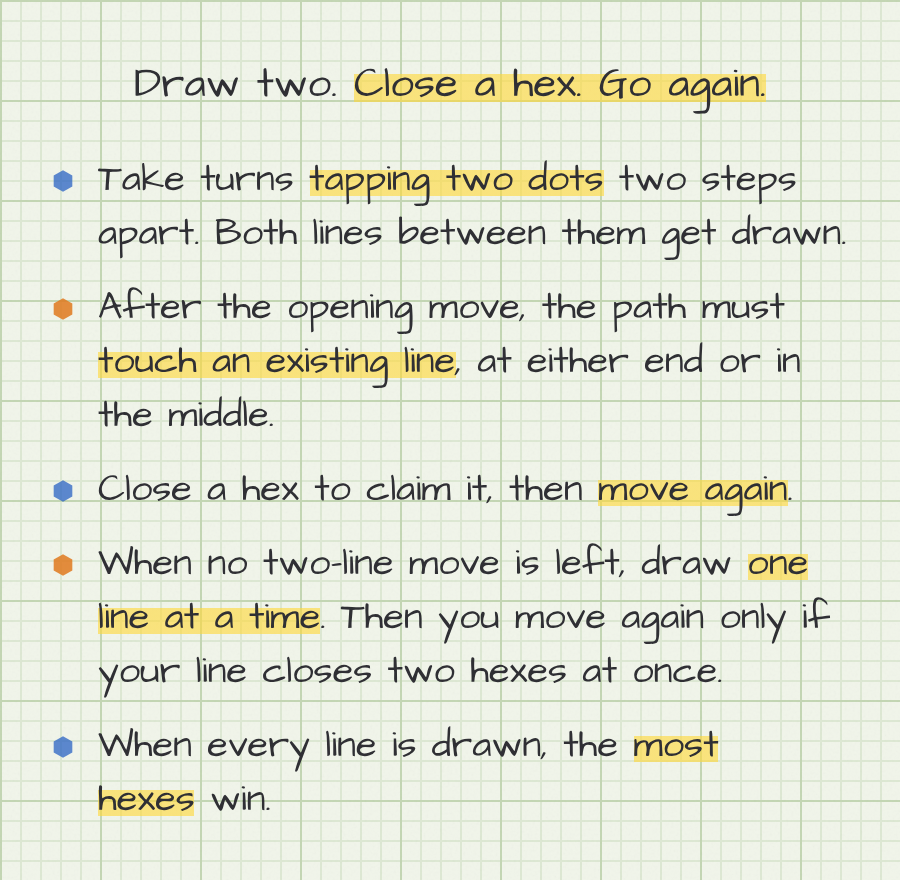
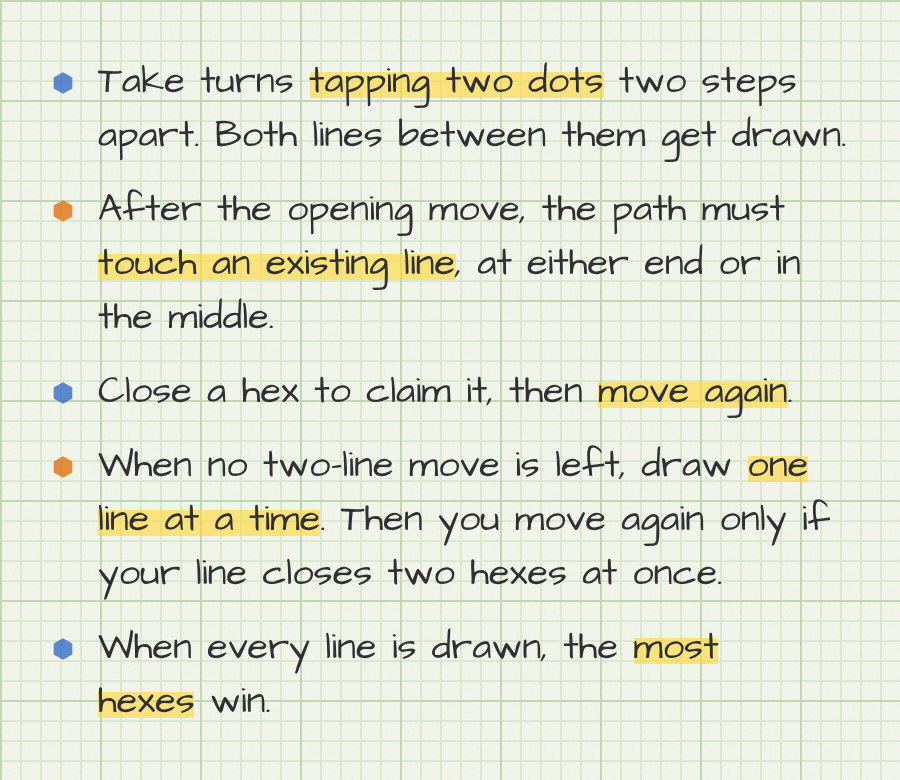
itch.io art: GIFs, and the rules without the tagline
cover-gif.mjs (after Patch Through's) plays the cover's seeded game move
by move in headless Chrome: each move's two lines drawn by pencil from
dot to dot, closed hexes popping in as in the game, a 2.5 s hold on the
still image's position, then a fade back to the empty board. ffmpeg
makes the looping GIFs: Cover.gif (379 KB) and Embed BG.gif (294 KB),
17.6 s each. board.js's drawBoard takes grow and pop for this;
Cover.html exposes drawFrame. The rules graphic drops the tagline and
is now 450x390.

Claude-Session: https://claude.ai/code/session_01HBxUBzsLmmLyjGt7Pc5a1a

Changed region(s): [[0.0, 0.0615, 1.0, 0.9538]]

diff --git a/itch/board.js b/itch/board.js
@@ -79,7 +79,9 @@ const wob = (i, j) => {
 };
 
 // Draws game g on svg, which is width px wide (its height follows the board's shape).
-export const drawBoard = (svg, g, width, { last = true } = {}) => {
+// For animation: grow (0 to 1) draws the last move's lines along its path, as the pencil goes from dot to
+// dot, and pop (0 to 1) brings in the hexes it closed, growing from 0.4 as in the game.
+export const drawBoard = (svg, g, width, { last = true, grow = 1, pop = 1 } = {}) => {
 	const bd = boardOf(g.size);
 	const [x0, y0, vw, vh] = bd.view;
 	const k = vw / width;
@@ -114,10 +116,24 @@ export const drawBoard = (svg, g, width, { last = true } = {}) => {
 	const pts = (vs) => vs.map((i) => `${bd.verts[i].x},${bd.verts[i].y}`).join(' ');
 
 	const hexes = add(svg, 'g', { filter: 'url(#b-crayon)' });
-	g.owner.forEach((o, i) => o > 0 && add(hexes, 'polygon', { points: pts(bd.hexes[i].vs), fill: `url(#b-fill${o})` }));
+	const fresh = new Set(g.last?.hexes ?? []);
+
+	g.owner.forEach((o, i) => {
+		if (o <= 0 || (fresh.has(i) && pop <= 0)) return;
+		const poly = add(hexes, 'polygon', { points: pts(bd.hexes[i].vs), fill: `url(#b-fill${o})` });
+
+		if (fresh.has(i) && pop < 1) {
+			const c = bd.hexes[i].vs.reduce((m, v) => ({ x: m.x + bd.verts[v].x / 6, y: m.y + bd.verts[v].y / 6 }), { x: 0, y: 0 });
+			const s = 0.4 + 0.6 * pop;
+			poly.setAttribute('transform', `translate(${c.x} ${c.y}) scale(${s}) translate(${-c.x} ${-c.y})`);
+			poly.setAttribute('opacity', pop);
+		}
+	});
 
 	const pencil = add(svg, 'g', { filter: 'url(#b-pencil)' });
 	const lastEdges = new Set(last && !g.over ? (g.last?.edges ?? []) : []);
+	// the last move's lines in drawing order, each with the dot it starts from
+	const order = (g.last?.edges ?? []).map((e, j) => ({ e, from: g.last.path[j] }));
 
 	bd.edges.forEach((e, i) => {
 		if (g.drawn[i] < 0) return;
@@ -133,7 +149,13 @@ export const drawBoard = (svg, g, width, { last = true } = {}) => {
 		const y2 = b.y + uy * o2 + wob(i, 5) * k;
 		const bow = 5 * wob(i, 6) * k;
 		const hard = lastEdges.has(i);
-		add(pencil, 'path', {
+		const j = order.findIndex((x) => x.e === i);
+		// how much of this line is drawn yet: the move's lines go one after the other
+		const part = j < 0 ? 1 : Math.min(1, Math.max(0, grow * order.length - j));
+
+		if (part <= 0) return;
+
+		const path = add(pencil, 'path', {
 			d: `M${n(x1)} ${n(y1)}Q${n((x1 + x2) / 2 - uy * bow)} ${n((y1 + y2) / 2 + ux * bow)} ${n(x2)} ${n(y2)}`,
 			fill: 'none',
 			style: `stroke: var(${hard ? '--last' : '--line'})`,
@@ -141,6 +163,13 @@ export const drawBoard = (svg, g, width, { last = true } = {}) => {
 			'stroke-linecap': 'round',
 			opacity: hard ? 1 : 0.9
 		});
+
+		if (part < 1) {
+			// drawn from the dot the move starts at: from e.a forward, or from e.b back
+			path.setAttribute('pathLength', 1);
+			path.setAttribute('stroke-dasharray', `${part} 2`);
+			if (order[j].from !== e.a) path.setAttribute('stroke-dashoffset', -(1 - part));
+		}
 	});
 
 	const dead = deadDots(bd, g);

diff --git a/itch/Cover.html b/itch/Cover.html
@@ -8,10 +8,10 @@
 	     #embed  640×360  Embed BG: itch's placeholder for "Click to launch in fullscreen", shown at actual size
 	                      behind the Run game button, so the middle stays clear
 	     #embed-preview   the same, with a stand-in Run game button to check the layout
-	     The board is a seeded game stopped mid-way (GAME below). -->
+	     The board is a seeded game stopped mid-way (GAME below); cover-gif.mjs plays it out with drawFrame. -->
 		<link rel="stylesheet" href="common.css" />
 		<style>
-			#board {
+			.board {
 				position: absolute;
 			}
 
@@ -36,7 +36,8 @@
 		<div class="pad">
 			<svg class="grain"><rect width="100%" height="100%" filter="url(#grain)" /></svg>
 		</div>
-		<svg id="board" xmlns="http://www.w3.org/2000/svg"></svg>
+		<svg id="board0" class="board" xmlns="http://www.w3.org/2000/svg"></svg>
+		<svg id="board" class="board" xmlns="http://www.w3.org/2000/svg"></svg>
 		<div class="title-block">
 			<div class="title"><span class="p1">Dots</span> &amp; <span class="p2">Hexes</span></div>
 			<svg class="underline" viewBox="0 0 100 12" preserveAspectRatio="none"><use href="#underline2" width="100" height="12" /></svg>
@@ -88,9 +89,20 @@
 
 			const games = playGame(GAME.size, GAME.seed, GAME.moves);
 			const board = document.getElementById('board');
-			Object.assign(board.style, { left: L.BX + 'px', top: L.BY + 'px' });
-			drawBoard(board, games.at(-1), L.BW);
-			window.games = games; // for cover-gif.mjs, later
+			const board0 = document.getElementById('board0');
+			for (const svg of [board, board0]) Object.assign(svg.style, { left: L.BX + 'px', top: L.BY + 'px' });
+
+			// One frame of the animation, for cover-gif.mjs: games[i], its last move drawn up to grow and its new hexes
+			// popped in up to pop; fade crossfades from it to the empty board, where the GIF starts again.
+			window.drawFrame = ({ i = games.length - 1, grow = 1, pop = 1, fade = 0 } = {}) => {
+				drawBoard(board, games[i], L.BW, { grow, pop });
+				board.style.opacity = 1 - fade;
+				board0.style.opacity = fade;
+			};
+			window.games = games;
+
+			drawBoard(board0, games[0], L.BW);
+			drawFrame();
 
 			const block = document.querySelector('.title-block');
 			Object.assign(block.style, { left: L.titleX + 'px', top: L.titleTop + 'px' });

diff --git a/itch/rules.html b/itch/rules.html
@@ -4,14 +4,14 @@
 		<meta charset="utf-8" />
 		<title>Dots and Hexes rules</title>
 		<!-- The home page's rules, for the itch.io description: styled as in src/Home.svelte, on the graph pad.
-	     render.sh renders it at the size of .canvas (450×440) -->
+	     render.sh renders it at the size of .canvas (450×390) -->
 		<link rel="stylesheet" href="common.css" />
 		<style>
 			.canvas {
 				position: relative;
 				box-sizing: border-box;
 				width: 450px;
-				height: 440px;
+				height: 390px;
 				display: grid;
 				place-content: center;
 			}
@@ -21,11 +21,6 @@
 				width: 400px;
 				display: grid;
 				gap: 20px;
-			}
-
-			.intro {
-				justify-self: center;
-				font-size: 21px;
 			}
 
 			.bullets {
@@ -65,7 +60,6 @@
 				<svg class="grain"><rect width="100%" height="100%" filter="url(#grain)" /></svg>
 			</div>
 			<div class="content">
-				<div class="intro">Draw two. <span class="hl">Close a hex. Go again.</span></div>
 				<div class="bullets"></div>
 			</div>
 		</div>

diff --git a/CLAUDE.md b/CLAUDE.md
@@ -59,6 +59,10 @@ message band, prompts, toolbar (back, resign, reset stats, sfx, music).
 - `npm run build:itch` — `scripts/build-itch.js` (Triangula's, plus `icons` in its drop list): a static build in Vite's
   `itch` mode into `build-itch/`, without the manifest, install icons and app-install head tags, zipped as
   `build-itch/bitch.zip` to upload.
+- itch.io page art is in `itch/`, as in Patch Through: `Cover.html` (`#cover` 630×500, `#embed` 640×360 with the middle
+  clear for the Run game button, `#embed-preview` with a stand-in button) and `rules.html` (450×390), drawn with the
+  game's look by `board.js` from a seeded game played with `src/engine.js` (13 hexes, seed 2, 20 moves).
+  `sh itch/render.sh` renders the PNGs (headless Edge or Chrome), `node itch/cover-gif.mjs` the GIFs (Chrome and ffmpeg).
 
 ## Rules (agreed in the prototype)
 
